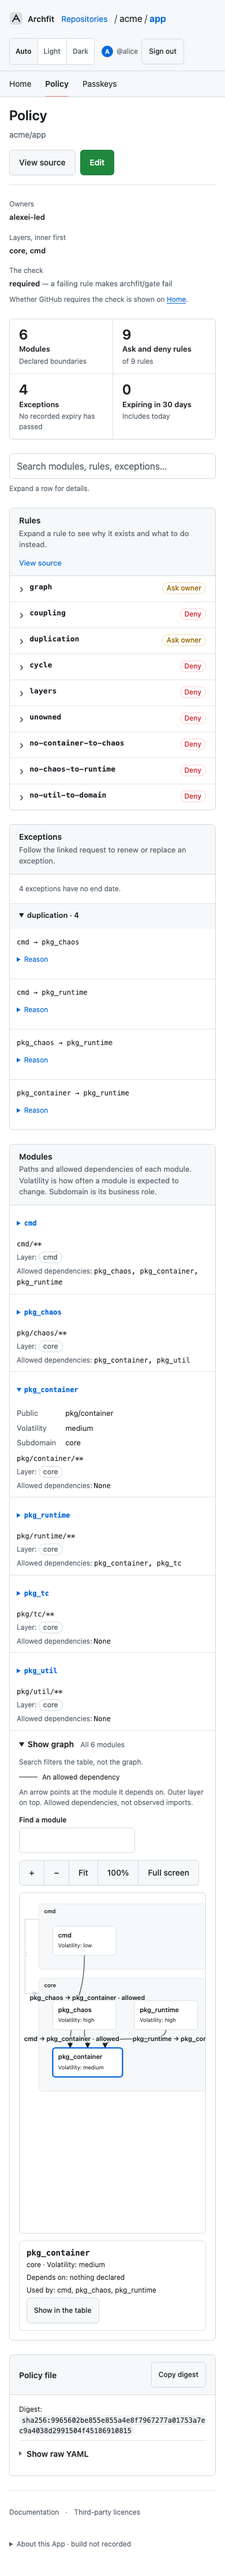
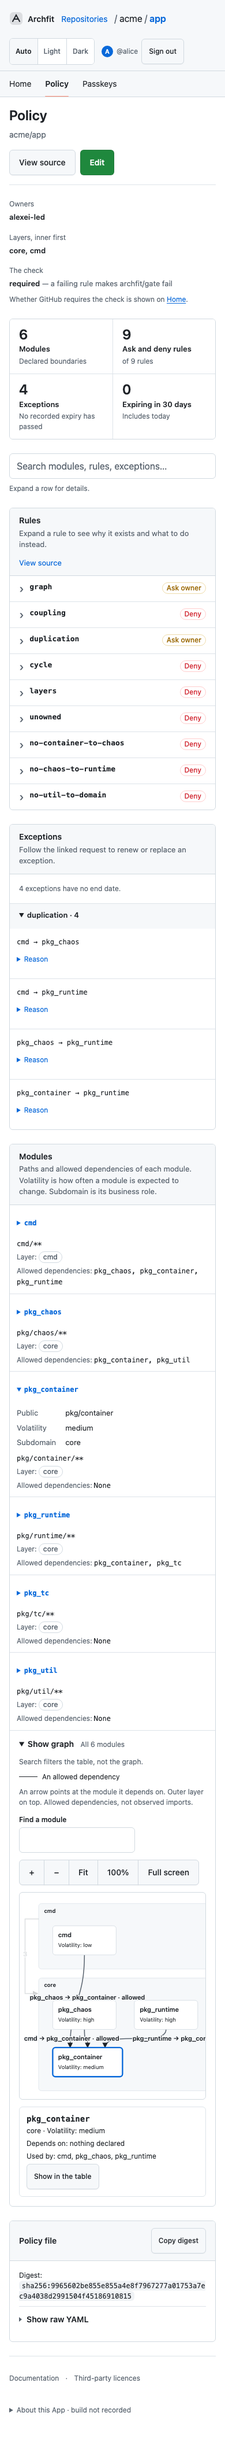
fix(web): size the policy graph viewport to its content (#211)
* fix(web): size the policy graph viewport to its content

The graph viewport kept a fixed height and fit to a width chosen at open time, so a six-module graph left a large empty area and a resized window kept its old scale. The viewport now follows the drawn chart (min 240 px, max min(70vh, 720 px)), fit-to-width enlarges small charts up to 150%, and the view refits on resize until the reader zooms or pans.

* fix(web): keep self-dependency loops inside the fitted graph

Review found two issues in the viewport change: the fitView comment still said fit never passes 100%, and fit to width left no room for a self-dependency loop at the rightmost module, so Fit clipped it. Fit now reserves 40 px past the rightmost node, and the comment names FIT_MAX.

diff --git a/web/src/components/map/Diagram.svelte b/web/src/components/map/Diagram.svelte
@@ -32,7 +32,13 @@
   const canFullscreen = typeof document !== 'undefined' && document.fullscreenEnabled === true;
 
   const vp = $derived({ w: width, h: height });
-  const world = $derived({ w: placed?.width ?? 0, h: placed?.height ?? 0 });
+  // Fit uses the drawn extent, not the band width: bands are laid out one row wide, so a small graph would otherwise fit as a mostly empty row.
+  // A self-dependency loop bulges about 38 px past its node (routes.ts), so the fit keeps 40 px clear of the rightmost node.
+  const world = $derived(
+    placed ? { w: Math.max(placed.left, ...placed.nodes.map((n) => n.x + n.width)) + 40, h: placed.height } : { w: 0, h: 0 },
+  );
+  // The viewport is as tall as the chart at fit-to-width scale, within 240 px and the spec's 70vh / 720 px bound. Only the width feeds the scale, so this does not loop.
+  const contentH = $derived(Math.ceil(world.h * fitView(world, { w: width, h: 0 }).k));
   const box = $derived(view && width > 0 ? viewBox(view, vp) : `0 0 ${world.w} ${world.h}`);
   const touches = (line: { from: string; to: string }) => line.from === focused || line.to === focused;
   const lines = $derived(mapLines(model.lines));
@@ -49,6 +55,7 @@
     const controller = new AbortController();
     placed = null;
     view = null;
+    auto = true;
     focused = '';
     failure = '';
     if (model.modules.length) {
@@ -66,10 +73,15 @@
 
   $effect(() => { onfocus?.(focused); });
 
-  // Open readable: the first time the chart and the viewport both have a size.
+  // Fit to width until the reader moves or zooms the chart, so a resized viewport refits instead of keeping its old scale.
+  let auto = $state(true);
   $effect(() => {
-    if (placed && width > 0 && height > 0 && !view) view = fitView(world, vp);
+    if (placed && width > 0 && auto) view = fitView(world, vp);
   });
+  function userView(next: View) {
+    auto = false;
+    view = next;
+  }
 
   // A wheel handler must be non-passive to stop the page zooming with the chart; Svelte's onwheel is passive.
   $effect(() => {
@@ -80,7 +92,7 @@
       e.preventDefault();
       const p = local(e);
       const delta = e.deltaMode === 1 ? e.deltaY * 20 : e.deltaY;
-      view = zoomAt(view, world, vp, view.k * Math.exp(-delta * 0.01), p.x, p.y);
+      userView(zoomAt(view, world, vp, view.k * Math.exp(-delta * 0.01), p.x, p.y));
     };
     el.addEventListener('wheel', wheel, { passive: false });
     return () => el.removeEventListener('wheel', wheel);
@@ -97,10 +109,12 @@
     return { x: e.clientX - r.left, y: e.clientY - r.top };
   }
   function zoomBy(factor: number) {
-    if (view) view = zoomAt(view, world, vp, view.k * factor, width / 2, height / 2);
+    if (view) userView(zoomAt(view, world, vp, view.k * factor, width / 2, height / 2));
   }
-  const fit = () => { view = fitView(world, vp); };
-  const actual = () => { if (view) view = zoomAt(view, world, vp, 1, width / 2, height / 2); };
+  // Set through CSSOM, not a style attribute: the page's CSP forbids inline style= markup.
+  $effect(() => { viewport?.style.setProperty('--content-h', `${contentH}px`); });
+  const fit = () => { auto = true; view = fitView(world, vp); };
+  const actual = () => { if (view) userView(zoomAt(view, world, vp, 1, width / 2, height / 2)); };
   async function toggleFullscreen() {
     try {
       if (document.fullscreenElement) await document.exitFullscreen();
@@ -135,11 +149,11 @@
       if (!moved && Math.hypot(next.x - start.x, next.y - start.y) < DRAG_PX) return;
       if (!moved) viewport?.setPointerCapture(e.pointerId);
       moved = true;
-      view = panBy(view, world, vp, next.x - prev.x, next.y - prev.y);
+      userView(panBy(view, world, vp, next.x - prev.x, next.y - prev.y));
     } else if (pointers.length === 2) {
       const d = spread();
       const [a, b] = pointers;
-      if (pinch > 0) view = zoomAt(view, world, vp, (view.k * d) / pinch, (a.x + b.x) / 2, (a.y + b.y) / 2);
+      if (pinch > 0) userView(zoomAt(view, world, vp, (view.k * d) / pinch, (a.x + b.x) / 2, (a.y + b.y) / 2));
       pinch = d;
     }
   }
@@ -156,7 +170,7 @@
     const pan: Record<string, [number, number]> = {
       ArrowLeft: [STEP, 0], ArrowRight: [-STEP, 0], ArrowUp: [0, STEP], ArrowDown: [0, -STEP],
     };
-    if (pan[e.key]) view = panBy(view, world, vp, ...pan[e.key]);
+    if (pan[e.key]) userView(panBy(view, world, vp, ...pan[e.key]));
     else if (e.key === '+' || e.key === '=') zoomBy(ZOOM_STEP);
     else if (e.key === '-' || e.key === '_') zoomBy(1 / ZOOM_STEP);
     else if (e.key === '0') fit();
@@ -166,7 +180,7 @@
   }
 
   function reveal(node: MapNode, always = false) {
-    if (view && (always || !visible(view, vp, node))) view = centerOn(view, world, vp, node);
+    if (view && (always || !visible(view, vp, node))) userView(centerOn(view, world, vp, node));
   }
   // A pointer press focuses the module before the click; only the click decides, so a drag that starts on a module
   // pans without selecting it.
@@ -199,7 +213,7 @@
   function zoomIn(e: MouseEvent) {
     if (!view) return;
     const p = local(e);
-    view = zoomAt(view, world, vp, view.k * 2, p.x, p.y);
+    userView(zoomAt(view, world, vp, view.k * 2, p.x, p.y));
   }
 
   function find() {
@@ -331,7 +345,7 @@
   .find { display: grid; gap: 4px; font-size: 12px; font-weight: 600; }
   .find input { width: min(260px, 100%); font-weight: 400; }
   .map-viewport {
-    height: min(70vh, 720px);
+    height: min(max(240px, var(--content-h, 720px)), min(70vh, 720px));
     overflow: hidden;
     touch-action: none;
     user-select: none;

diff --git a/web/src/components/map/viewport.ts b/web/src/components/map/viewport.ts
@@ -16,6 +16,8 @@ export const MIN_LABEL_PX = 11;
 export const FLOOR = MIN_LABEL_PX / LABEL_PX;
 export const MIN_ZOOM = 0.1;
 export const MAX_ZOOM = 4;
+// Fit to width may enlarge a small chart, but not past this: a 6-module graph would otherwise fill the box with 20 px names.
+export const FIT_MAX = 1.5;
 // A quarter of the viewport, or of the chart where it is smaller, always stays on screen, so a drag or a key cannot
 // lose the chart even at the highest zoom.
 const KEEP = 0.25;
@@ -34,10 +36,10 @@ export function clampView(view: View, world: Size, vp: Size): View {
   };
 }
 
-// Fit to width, but never below the label floor and never magnified past 100%. When the floor wins, the chart starts
+// Fit to width, but never below the label floor and never magnified past FIT_MAX. When the floor wins, the chart starts
 // at the top-left and the reader pans.
 export function fitView(world: Size, vp: Size): View {
-  const k = Math.min(1, Math.max(FLOOR, vp.w / world.w));
+  const k = Math.min(FIT_MAX, Math.max(FLOOR, vp.w / world.w));
   const spare = vp.w / k - world.w;
   return { k, x: spare > 0 ? -spare / 2 : 0, y: 0 };
 }

diff --git a/web/src/components/map/viewport.test.ts b/web/src/components/map/viewport.test.ts
@@ -1,5 +1,5 @@
 import { describe, expect, it } from 'vitest';
-import { centerOn, fitView, FLOOR, MAX_ZOOM, MIN_ZOOM, panBy, viewBox, visible, zoomAt } from './viewport';
+import { centerOn, FIT_MAX, fitView, FLOOR, MAX_ZOOM, MIN_ZOOM, panBy, viewBox, visible, zoomAt } from './viewport';
 
 const vp = { w: 1200, h: 600 };
 
@@ -16,10 +16,10 @@ describe('fitView', () => {
     expect(14 * view.k).toBeCloseTo(11);
   });
 
-  it('never magnifies a small chart past 100% and centers it', () => {
+  it('enlarges a small chart to the fit maximum and centers it', () => {
     const view = fitView({ w: 360, h: 176 }, vp);
-    expect(view.k).toBe(1);
-    expect(view.x).toBe(-(1200 - 360) / 2);
+    expect(view.k).toBe(FIT_MAX);
+    expect(view.x).toBe(-(1200 / FIT_MAX - 360) / 2);
   });
 });
 

diff --git a/web/e2e/policy-reading.spec.ts b/web/e2e/policy-reading.spec.ts
@@ -94,6 +94,11 @@ test('policy reading: graph is secondary, uses declared dependencies and selects
   }
   await page.getByText('Show graph', { exact: false }).click();
   await expect(graph.locator('.map-node')).toHaveCount(6);
+  // A six-module graph is shorter than the 70vh cap, so its viewport shrinks to the chart instead of leaving a blank area.
+  const viewport = await page.locator('.map-viewport').boundingBox();
+  const frame = page.viewportSize()!;
+  expect(viewport!.height).toBeGreaterThanOrEqual(240);
+  expect(viewport!.height).toBeLessThan(frame.height * 0.7);
   await page.getByRole('searchbox').fill('no-such-module');
   await graph.locator('[data-module="pkg_container"]').click();
   const panel = page.getByRole('region', { name: 'Selected module' });
